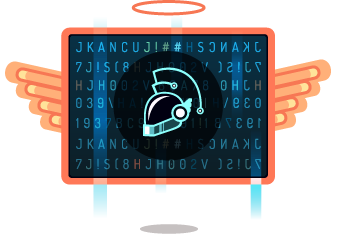
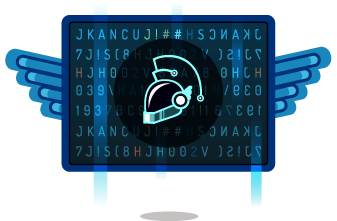
Update CypherVPN image, balanced feature page images

diff --git a/cypherpunk-com/src/app/layouts/public/features/features.component.html b/cypherpunk-com/src/app/layouts/public/features/features.component.html
@@ -55,7 +55,7 @@
 
     <div class="row">
       <div class="image">
-        <img class="e" src="/assets/features/privacy/cypherpunk-privacy-suite@2x.png" srcset="/assets/features/privacy/cypherpunk-privacy-suite.png 500w, /assets/features/privacy/cypherpunk-privacy-suite@2x.png 1000w" alt="Cypherpunk Privacy Suite">
+        <img class="padded-width" src="/assets/features/privacy/cypherpunk-privacy-suite@2x.png" srcset="/assets/features/privacy/cypherpunk-privacy-suite.png 500w, /assets/features/privacy/cypherpunk-privacy-suite@2x.png 1000w" alt="Cypherpunk Privacy Suite">
       </div>
 
       <div class="text">
@@ -166,7 +166,7 @@
 
     <div class="row">
       <div class="image mobile">
-        <img class="e" src="/assets/features/freedom/cypherplay@2x.png" srcset="/assets/features/freedom/cypherplay.png 500w, /assets/features/freedom/cypherplay@2x.png 1000w" alt="CypherPlay">
+        <img class="padded-width" src="/assets/features/freedom/cypherplay@2x.png" srcset="/assets/features/freedom/cypherplay.png 500w, /assets/features/freedom/cypherplay@2x.png 1000w" alt="CypherPlay">
       </div>
 
       <div class="text">
@@ -190,7 +190,7 @@
       </div>
 
       <div class="image desktop">
-        <img class="e" src="/assets/features/freedom/cypherplay@2x.png" srcset="/assets/features/freedom/cypherplay.png 500w, /assets/features/freedom/cypherplay@2x.png 1000w" alt="CypherPlay">
+        <img class="padded-width" src="/assets/features/freedom/cypherplay@2x.png" srcset="/assets/features/freedom/cypherplay.png 500w, /assets/features/freedom/cypherplay@2x.png 1000w" alt="CypherPlay">
       </div>
     </div>
   </div>
@@ -404,7 +404,7 @@
 
     <div class="row">
       <div class="image">
-        <img class="d" src="/assets/features/privacy/cypherpunk-privacy-network@2x.png" srcset="/assets/features/privacy/cypherpunk-privacy-network.png 500w, /assets/features/privacy/cypherpunk-privacy-network@2x.png 1000w" alt="">
+        <img class="padded-width" src="/assets/features/privacy/cypherpunk-privacy-network@2x.png" srcset="/assets/features/privacy/cypherpunk-privacy-network.png 500w, /assets/features/privacy/cypherpunk-privacy-network@2x.png 1000w" alt="">
       </div>
 
       <div class="text">
@@ -526,7 +526,7 @@
 
     <div class="row">
       <div class="image mobile">
-        <img class="d" src="/assets/features/freedom/Cypherpunk-VPN@2x.png" srcset="/assets/features/freedom/Cypherpunk-VPN.png 500w, /assets/features/freedom/Cypherpunk-VPN@2x.png 1000w" alt="">
+        <img class="full-width" src="/assets/features/freedom/Cypherpunk-VPN@2x.png" srcset="/assets/features/freedom/Cypherpunk-VPN.png 500w, /assets/features/freedom/Cypherpunk-VPN@2x.png 1000w" alt="">
       </div>
 
       <div class="text">
@@ -550,7 +550,7 @@
       </div>
 
       <div class="image desktop">
-        <img class="d" src="/assets/features/freedom/Cypherpunk-VPN@2x.png" srcset="/assets/features/freedom/Cypherpunk-VPN.png 500w, /assets/features/freedom/Cypherpunk-VPN@2x.png 1000w" alt="">
+        <img class="full-width" src="/assets/features/freedom/Cypherpunk-VPN@2x.png" srcset="/assets/features/freedom/Cypherpunk-VPN.png 500w, /assets/features/freedom/Cypherpunk-VPN@2x.png 1000w" alt="">
       </div>
     </div>
   </div>
@@ -702,7 +702,7 @@
 
     <div class="row">
       <div class="image">
-        <img class="s" src="/assets/features/security/online-security@2x.png" srcset="/assets/features/security/online-security.png 500w, /assets/features/security/online-security@2x.png 1000w" alt="">
+        <img class="padded-width" src="/assets/features/security/online-security@2x.png" srcset="/assets/features/security/online-security.png 500w, /assets/features/security/online-security@2x.png 1000w" alt="">
       </div>
 
       <div class="text">
@@ -748,7 +748,7 @@
   <div class="inner">
     <div class="row">
       <div class="image mobile">
-        <img class="e" src="/assets/features/security/support-for-modern-vpn@2x.png" srcset="/assets/features/security/support-for-modern-vpn.png 500w, /assets/features/security/support-for-modern-vpn@2x.png 1000w" alt="Modern VPN">
+        <img class="padded-width" src="/assets/features/security/support-for-modern-vpn@2x.png" srcset="/assets/features/security/support-for-modern-vpn.png 500w, /assets/features/security/support-for-modern-vpn@2x.png 1000w" alt="Modern VPN">
       </div>
 
       <div class="text">
@@ -768,7 +768,7 @@
       </div>
 
       <div class="image desktop">
-        <img class="e" src="/assets/features/security/support-for-modern-vpn@2x.png" srcset="/assets/features/security/support-for-modern-vpn.png 500w, /assets/features/security/support-for-modern-vpn@2x.png 1000w" alt="Modern VPN">
+        <img class="padded-width" src="/assets/features/security/support-for-modern-vpn@2x.png" srcset="/assets/features/security/support-for-modern-vpn.png 500w, /assets/features/security/support-for-modern-vpn@2x.png 1000w" alt="Modern VPN">
       </div>
     </div>
   </div>
@@ -940,7 +940,7 @@
 
     <div class="row">
       <div class="image mobile">
-        <img class="p" src="/assets/features/support/expert@2x.png" srcset="/assets/features/support/expert.png 500w, /assets/features/support/expert@2x.png 1000w" alt="Expert Support">
+        <img class="padded-width" src="/assets/features/support/expert@2x.png" srcset="/assets/features/support/expert.png 500w, /assets/features/support/expert@2x.png 1000w" alt="Expert Support">
       </div>
 
       <div class="text">
@@ -960,7 +960,7 @@
       </div>
 
       <div class="image desktop">
-        <img class="p" src="/assets/features/support/expert@2x.png" srcset="/assets/features/support/expert.png 500w, /assets/features/support/expert@2x.png 1000w" alt="Expert Support">
+        <img class="padded-width" src="/assets/features/support/expert@2x.png" srcset="/assets/features/support/expert.png 500w, /assets/features/support/expert@2x.png 1000w" alt="Expert Support">
       </div>
     </div>
   </div>

diff --git a/cypherpunk-com/src/app/layouts/public/features/features.component.scss b/cypherpunk-com/src/app/layouts/public/features/features.component.scss
@@ -63,6 +63,8 @@
     text-align: center;
     display: inline-block;
     vertical-align: middle;
+    .padded-width { width: 80%; padding: 0 20px; }
+    .full-width { width: 100%; }
     .e { width: 249px; }
     .d { width: 242px; }
     .p { width: 277px; }
